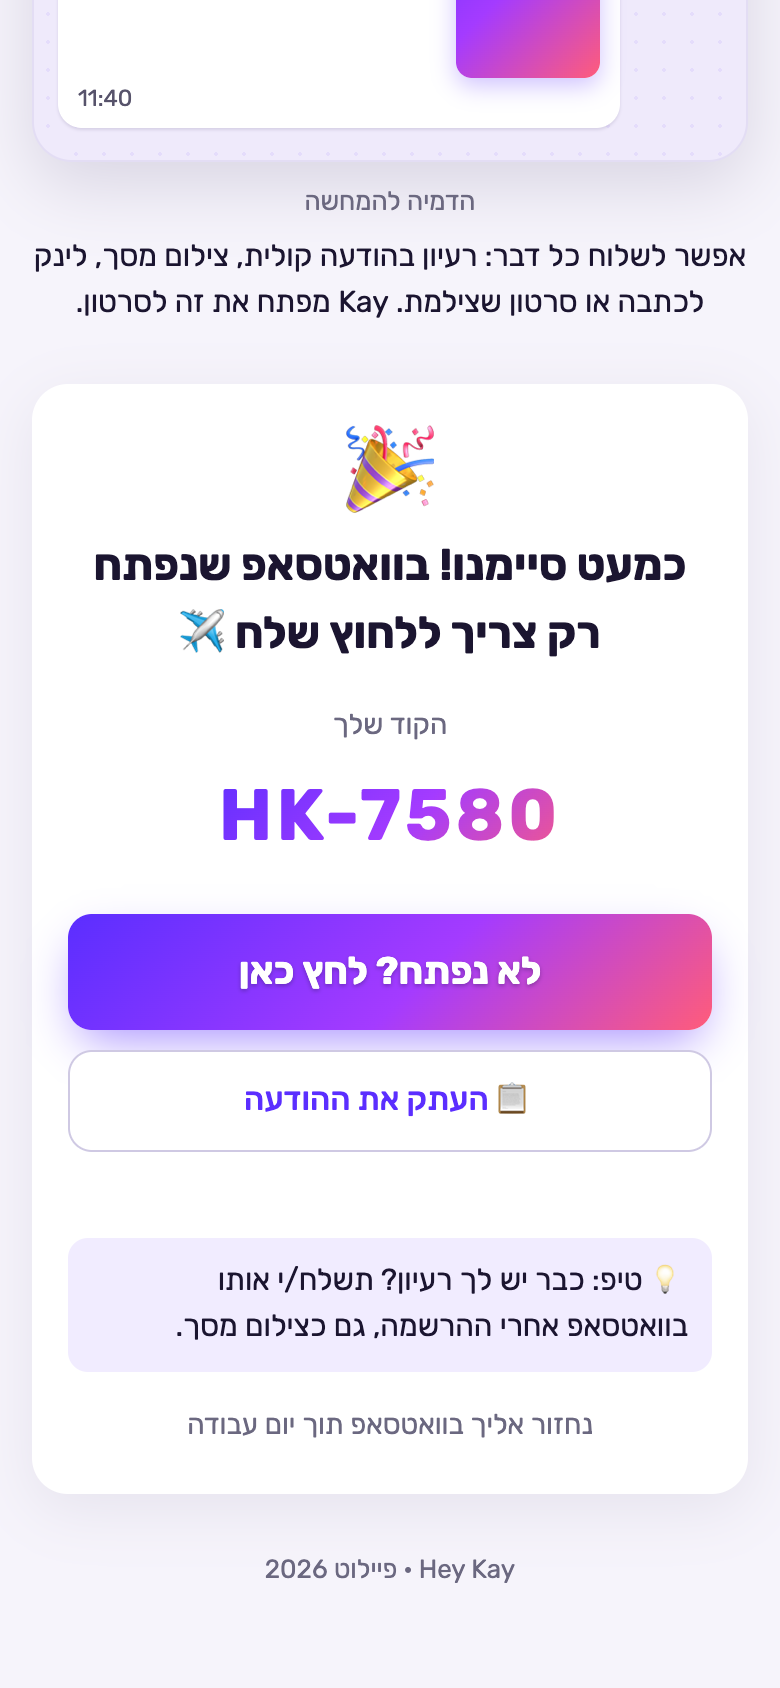
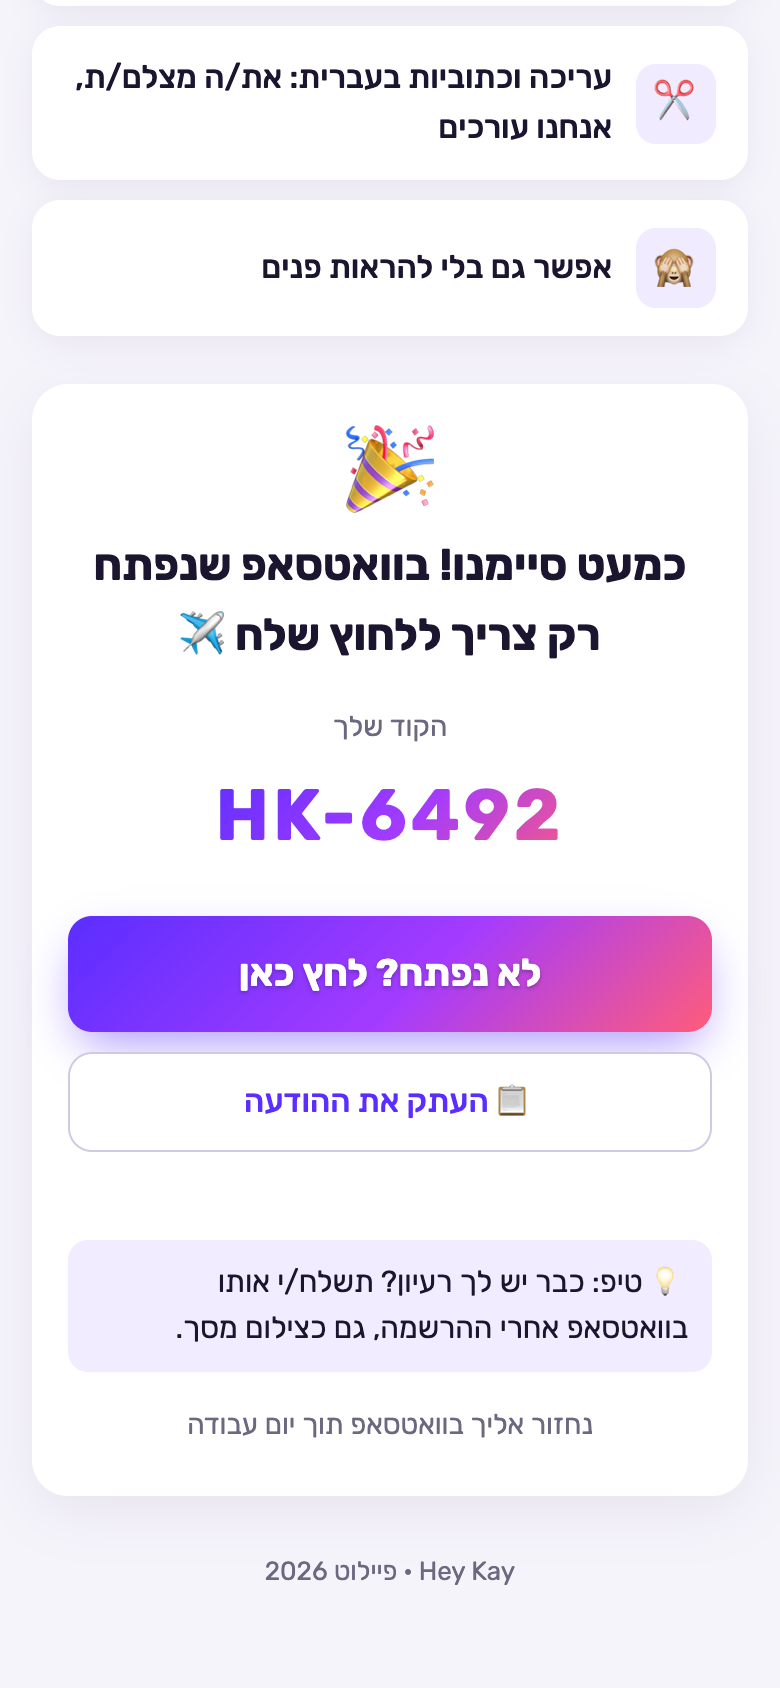
Hide demo section and jump to success card after submit

diff --git a/index.html b/index.html
@@ -343,7 +343,7 @@
   </ul>
 
   <!-- ===== WhatsApp demo ===== -->
-  <section class="demo" aria-labelledby="demoTitle">
+  <section class="demo" id="demo" aria-labelledby="demoTitle">
     <h2 id="demoTitle">שולחים רעיון או צילום מסך, ו־Kay הופך אותו לסרטון</h2>
     <div class="chat" role="img" aria-label="הדמיה של שיחת וואטסאפ עם Hey Kay: הלקוחה שולחת צילום מסך של מחירון חדש ושואלת אם אפשר לעשות מזה משהו. Kay מציע רעיון לסרטון של 25 שניות בלי פנים, עם הוק ותסריט צילום, ובהמשך מחזיר סרטון ערוך עם כתוביות וכותרת, מוכן להעלאה.">
       <div class="chat-head">
@@ -754,8 +754,11 @@ const CONFIG = {
     $("blockedLink").href = lastUrl;
     $("blockedNote").hidden = true;
     $("formCard").hidden = true;
+    $("demo").hidden = true;
     $("success").hidden = false;
-    $("success").scrollIntoView({ block: "start" });
+    // Instant jump (not smooth) so the success card sits at the top of the viewport.
+    const top = $("success").getBoundingClientRect().top + window.scrollY - 16;
+    window.scrollTo({ top: Math.max(0, top), behavior: "instant" });
     $("successTitle").focus({ preventScroll: true });
   }
 
